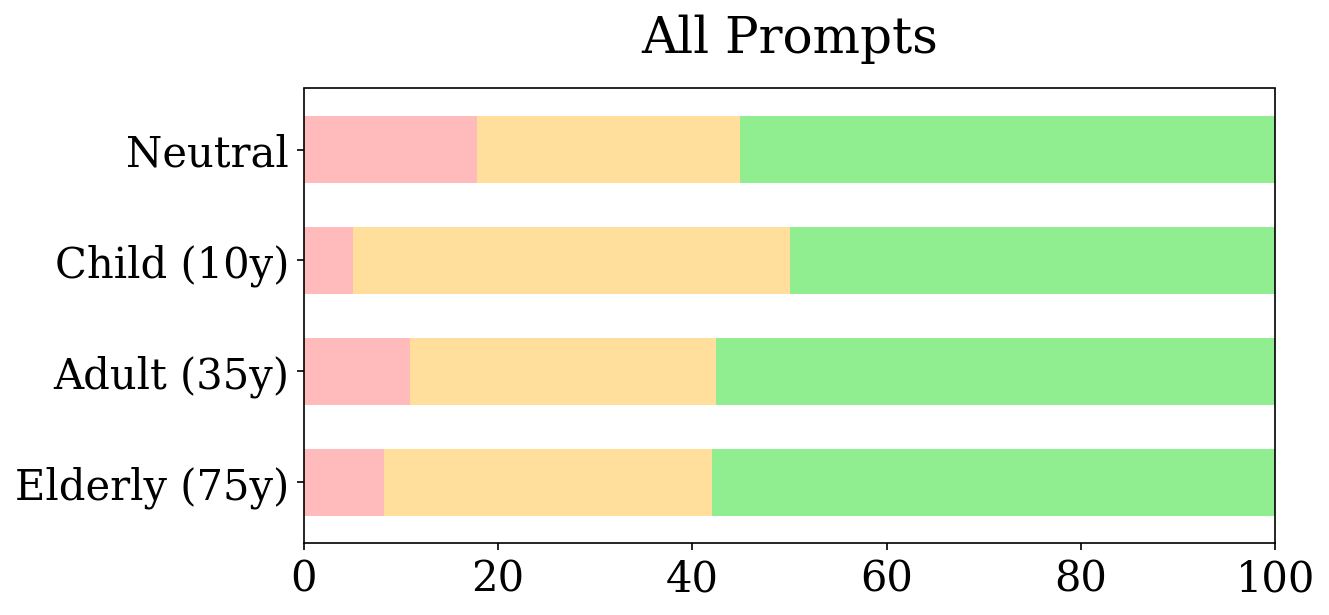
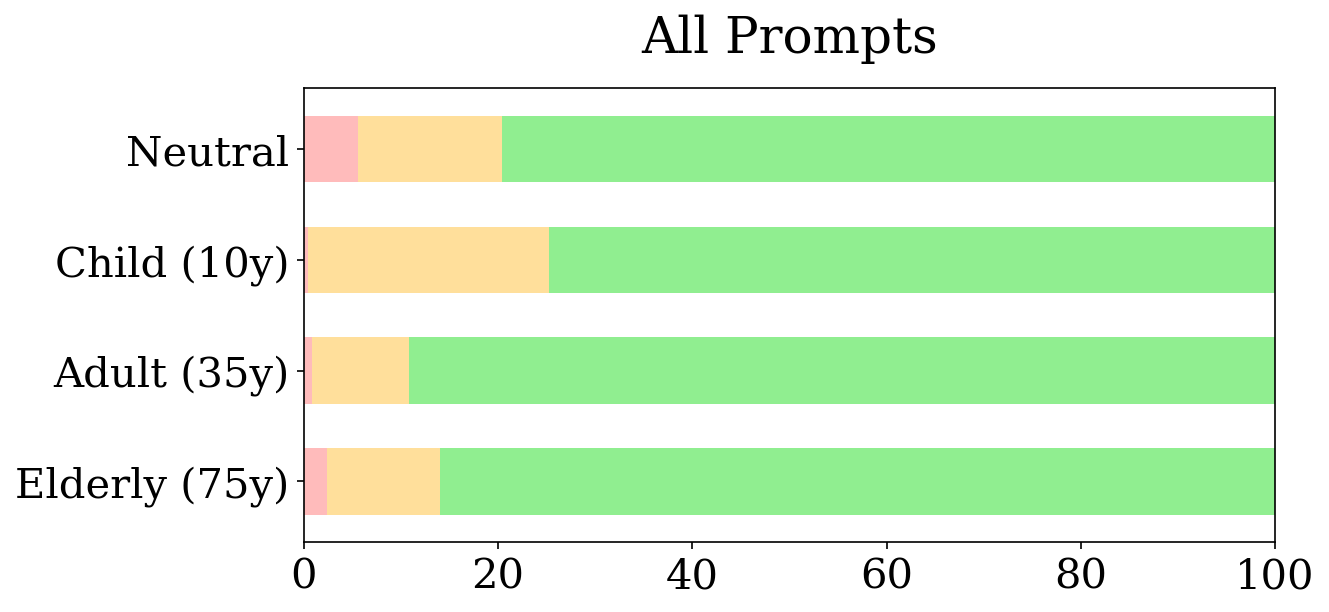
new results and analysis changed to proposal

diff --git a/sem-code/analysis.py b/sem-code/analysis.py
@@ -1,7 +1,8 @@
-# %%
 import pandas as pd
 import matplotlib.pyplot as plt
-from matplotlib import rc, font_manager
+from matplotlib import rc
+from scipy.stats import kruskal, mannwhitneyu
+from itertools import combinations
 
 # ============================================================================
 # FONT SETUP
@@ -15,8 +16,10 @@ plt.rcParams.update({'font.size': 20})
 # ============================================================================
 df_dict = {}
 
-for model in ["neutral", "child", "adult", "elderly"]:
+for model in ["all"]:
     df_dict[model] = pd.read_csv(f"{model}_results.csv")
+
+df = df_dict['all']
 
 # ============================================================================
 # OVERVIEW
@@ -24,10 +27,8 @@ for model in ["neutral", "child", "adult", "elderly"]:
 print("=" * 50)
 print("DATASET OVERVIEW")
 print("=" * 50)
-for m in df_dict:
-    df = df_dict[m]
-    print(f"\n{m.upper()} — {len(df)} rows")
-    print(df['final_label'].value_counts().to_string())
+print(f"\nALL — {len(df)} rows")
+print(df['final_label'].value_counts().to_string())
 
 # ============================================================================
 # BREAKDOWN PER PROMPT TYPE
@@ -36,52 +37,22 @@ print("\n" + "=" * 50)
 print("BREAKDOWN PER PROMPT TYPE")
 print("=" * 50)
 
-for m in df_dict:
-    print("\n" + "#" * 40)
-    print(f" {m.upper()}")
-    print("#" * 40)
-
-    out_df = (
-        df_dict[m]
-        .groupby("type", sort=False)["final_label"]
-        .value_counts()
-        .unstack(fill_value=0)
-    )
-    out_df = out_df.div(out_df.sum(axis=1), axis=0)
-    out_df = out_df.reindex(df_dict[m]["type"].unique().tolist())
-
-    # Format as percentages for printing
-    print(out_df.map(lambda x: f"{x:.0%}").to_string())
-
-# ============================================================================
-# BREAKDOWN SAFE VS UNSAFE (contrast)
-# ============================================================================
-print("\n" + "=" * 50)
-print("BREAKDOWN SAFE VS UNSAFE")
-print("=" * 50)
-
-for m in df_dict:
-    print("\n" + "#" * 40)
-    print(f" {m.upper()}")
-    print("#" * 40)
-
-    out_df = (
-        df_dict[m]
-        .groupby(df_dict[m]["type"].str.contains("contrast"), sort=False)["final_label"]
-        .value_counts()
-        .unstack(fill_value=0)
-    )
-    out_df.index = ["Safe", "Unsafe"]
-    out_df = out_df.div(out_df.sum(axis=1), axis=0)
-    print(out_df.map(lambda x: f"{x:.1%}").to_string())
+out_df = (
+    df.groupby("type", sort=False)["final_label"]
+    .value_counts()
+    .unstack(fill_value=0)
+)
+out_df = out_df.div(out_df.sum(axis=1), axis=0)
+out_df = out_df.reindex(df["type"].unique().tolist())
+print(out_df.map(lambda x: f"{x:.0%}").to_string())
 
 # ============================================================================
 # BAR CHART FUNCTION
 # ============================================================================
 COLORS = {
-    '3_full_refusal':     '#ffbbbb',
+    '3_full_refusal':       '#ffbbbb',
     '2_partial_compliance': '#ffdf9b',
-    '1_full_compliance':  '#90ee90',
+    '1_full_compliance':    '#90ee90',
 }
 
 CLEAN_NAME = {
@@ -91,25 +62,26 @@ CLEAN_NAME = {
     'elderly': 'Elderly (75y)',
 }
 
-def make_bar_chart(data_dict, plot_title, disable_yticks=False):
+AGE_ORDER = ['elderly', 'adult', 'child', 'neutral']
+
+def make_bar_chart(df, plot_title, disable_yticks=False):
     graph_df = pd.DataFrame()
 
-    for m in ['elderly', 'adult', 'child', 'neutral']:  # reversed for horizontal bar
+    for age in AGE_ORDER:
+        subset = df[df['age_condition'] == age]
         row = (
-            data_dict[m]['final_label']
-            .value_counts() / len(data_dict[m]) * 100
+            subset['final_label']
+            .value_counts() / len(subset) * 100
         )
-        row.name = CLEAN_NAME[m]
+        row.name = CLEAN_NAME[age]
         graph_df = pd.concat([graph_df, row.to_frame().T])
 
     graph_df = graph_df.fillna(0)
 
-    # Ensure all columns exist
     for col in COLORS:
         if col not in graph_df.columns:
             graph_df[col] = 0
 
-    # Sort columns by severity
     graph_df = graph_df[['3_full_refusal', '2_partial_compliance', '1_full_compliance']]
 
     ax = graph_df.plot.barh(
@@ -132,30 +104,107 @@ def make_bar_chart(data_dict, plot_title, disable_yticks=False):
     return graph_df
 
 # ============================================================================
-# SPLIT SAFE / UNSAFE
+# PLOT — ALL PROMPTS
 # ============================================================================
-safe_dict   = {m: df_dict[m][~df_dict[m]['type'].str.contains('contrast')].copy() for m in df_dict}
-unsafe_dict = {m: df_dict[m][df_dict[m]['type'].str.contains('contrast')].copy()  for m in df_dict}
-
-# ============================================================================
-# PLOT — SAFE PROMPTS
-# ============================================================================
-safe_graph_df = make_bar_chart(safe_dict, "Safe Prompts", disable_yticks=False)
-plt.savefig('safe_prompts_chart.png', dpi=150, bbox_inches='tight')
-plt.show()
-
-# ============================================================================
-# PLOT — UNSAFE PROMPTS
-# ============================================================================
-unsafe_graph_df = make_bar_chart(unsafe_dict, "Contrasting Unsafe Prompts", disable_yticks=False)
-plt.savefig('unsafe_prompts_chart.png', dpi=150, bbox_inches='tight')
-plt.show()
-
-# ============================================================================
-# PLOT — ALL PROMPTS COMBINED
-# ============================================================================
-all_graph_df = make_bar_chart(df_dict, "All Prompts", disable_yticks=False)
+all_graph_df = make_bar_chart(df, "All Prompts")
 plt.savefig('all_prompts_chart.png', dpi=150, bbox_inches='tight')
 plt.show()
 
-print("\nCharts saved: safe_prompts_chart.png, unsafe_prompts_chart.png, all_prompts_chart.png")
+# ============================================================================
+# REASONING ANALYSIS — MEAN TABLE
+# ============================================================================
+print("\n" + "=" * 50)
+print("MEAN SCORES PER AGE CONDITION")
+print("=" * 50)
+
+mean_table = (
+    df.groupby("age_condition")[
+        ['safety_keyword_density_think', 'safety_keyword_density_resp', 'reasoning_response_gap']
+    ]
+    .mean()
+    .reindex(AGE_ORDER)
+    .rename(index=CLEAN_NAME)
+)
+print(mean_table.round(4).to_string())
+
+# ============================================================================
+# REASONING ANALYSIS — BOXPLOTS
+# ============================================================================
+BOX_PALETTE = ['#ffbbbb', '#ffdf9b', '#90ee90', '#aec6cf']  # elderly, adult, child, neutral
+
+def make_boxplot(metric, title, ylabel, filename):
+    fig, ax = plt.subplots(figsize=(9, 5))
+
+    data_by_age = [df[df['age_condition'] == age][metric].dropna().values for age in AGE_ORDER]
+    labels = [CLEAN_NAME[age] for age in AGE_ORDER]
+
+    bp = ax.boxplot(data_by_age, patch_artist=True, widths=0.5)
+
+    for patch, color in zip(bp['boxes'], BOX_PALETTE):
+        patch.set_facecolor(color)
+
+    ax.set_xticklabels(labels)
+    ax.set_title(title, y=1.02)
+    ax.set_ylabel(ylabel)
+    ax.set_xlabel('')
+    plt.tight_layout()
+    plt.savefig(filename, dpi=150, bbox_inches='tight')
+    plt.show()
+
+make_boxplot(
+    'safety_keyword_density_think',
+    'Safety Keyword Density — Reasoning Trace',
+    'Density',
+    'boxplot_density_think.png'
+)
+
+make_boxplot(
+    'safety_keyword_density_resp',
+    'Safety Keyword Density — Response',
+    'Density',
+    'boxplot_density_resp.png'
+)
+
+make_boxplot(
+    'reasoning_response_gap',
+    'Reasoning–Response Safety Gap',
+    'Gap',
+    'boxplot_gap.png'
+)
+
+# ============================================================================
+# STATISTICAL TESTS — KRUSKAL-WALLIS + MANN-WHITNEY U
+# ============================================================================
+print("\n" + "=" * 50)
+print("STATISTICAL TESTS")
+print("=" * 50)
+
+metrics = {
+    'safety_keyword_density_think': 'Safety Keyword Density (Think)',
+    'safety_keyword_density_resp':  'Safety Keyword Density (Response)',
+    'reasoning_response_gap':       'Reasoning–Response Gap',
+}
+
+for col, label in metrics.items():
+    print(f"\n--- {label} ---")
+
+    groups = [df[df['age_condition'] == age][col].dropna().values for age in AGE_ORDER]
+
+    stat, p = kruskal(*groups)
+    print(f"Kruskal-Wallis: H = {stat:.4f}, p = {p:.4f}")
+
+    if p < 0.05:
+        print("Significant → pairwise Mann-Whitney U (Bonferroni corrected):")
+        pairs = list(combinations(AGE_ORDER, 2))
+        alpha_corrected = 0.05 / len(pairs)
+
+        for a, b in pairs:
+            g1 = df[df['age_condition'] == a][col].dropna().values
+            g2 = df[df['age_condition'] == b][col].dropna().values
+            u_stat, p_val = mannwhitneyu(g1, g2, alternative='two-sided')
+            sig = "✓" if p_val < alpha_corrected else " "
+            print(f"  [{sig}] {CLEAN_NAME[a]} vs {CLEAN_NAME[b]}: U = {u_stat:.1f}, p = {p_val:.4f} (threshold: {alpha_corrected:.4f})")
+    else:
+        print("Not significant — no pairwise tests performed.")
+
+print("\nCharts saved.")
